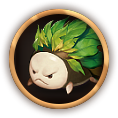
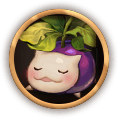
chore: add Monster Collection assets

diff --git a/src/renderer/components/core/Menu/index.tsx b/src/renderer/components/core/Menu/index.tsx
@@ -1,20 +1,20 @@
-import React, { useEffect, useState } from "react";
-import { observer } from "mobx-react";
-import MenuItem from "./MenuItem";
-import { useStore } from "src/utils/useStore";
-import { ipcRenderer, shell } from "electron";
 import { app } from "@electron/remote";
+import { shell } from "electron";
+import { observer } from "mobx-react";
+import React, { useEffect, useState } from "react";
 import { styled } from "src/renderer/stitches.config";
+import { useStore } from "src/utils/useStore";
+import MenuItem from "./MenuItem";
 
-import settings from "src/renderer/resources/icons/settings.png";
-import refresh from "src/renderer/resources/icons/refresh.png";
-import discord from "src/renderer/resources/icons/discord.png";
 import logo from "src/renderer/resources/icons/9c.png";
-import staking from "src/renderer/resources/icons/staking.png";
-import ncgLogo from "src/renderer/resources/icons/ncgLogo.png";
+import discord from "src/renderer/resources/icons/discord.png";
 import exchange from "src/renderer/resources/icons/exchange.png";
-import SettingsOverlay from "src/renderer/views/SettingsOverlay";
+import ncgLogo from "src/renderer/resources/icons/ncgLogo.png";
+import refresh from "src/renderer/resources/icons/refresh.png";
+import settings from "src/renderer/resources/icons/settings.png";
+import staking from "src/renderer/resources/icons/staking.png";
 import MonsterCollectionOverlay from "src/renderer/views/MonsterCollectionOverlay";
+import SettingsOverlay from "src/renderer/views/SettingsOverlay";
 import TransferAssetOverlay from "src/renderer/views/TransferAssetOverlay/main";
 import { useExternalURL } from "src/utils/useExternalURL";
 

diff --git a/src/renderer/views/MonsterCollectionOverlay/MonsterCollectionContent.tsx b/src/renderer/views/MonsterCollectionOverlay/MonsterCollectionContent.tsx
@@ -26,6 +26,8 @@ import monster2Img from "src/renderer/resources/collection/monster-2.png";
 import monster3Img from "src/renderer/resources/collection/monster-3.png";
 import monster4Img from "src/renderer/resources/collection/monster-4.png";
 import monster5Img from "src/renderer/resources/collection/monster-5.png";
+import monster6Img from "src/renderer/resources/collection/monster-6.png";
+import monster7Img from "src/renderer/resources/collection/monster-7.png";
 import itemMetadata from "src/utils/monsterCollection/items";
 
 import systemRewards from "src/utils/monsterCollection/systemRewards";
@@ -61,6 +63,8 @@ const images = [
   monster3Img,
   monster4Img,
   monster5Img,
+  monster6Img,
+  monster7Img,
 ];
 
 type LevelList =
@@ -102,7 +106,7 @@ export function MonsterCollectionContent({
   current: {
     stateQuery: { stakeState },
   },
-  isEditing: initalEditing,
+  isEditing: initialEditing,
   currentNCG,
   onChangeAmount,
   children,
@@ -110,7 +114,7 @@ export function MonsterCollectionContent({
   tip,
   isLoading,
 }: MonsterCollectionOverlayProps) {
-  const [isEditing, setIsEditing] = useState(initalEditing ?? false);
+  const [isEditing, setIsEditing] = useState(initialEditing ?? false);
   const inputRef = useRef<HTMLInputElement>(null);
   const [amount, setAmount] = useState("0");
   const [openedAlert, setIsAlertOpen] = useState<Alerts | null>(null);

diff --git a/src/renderer/views/MonsterCollectionOverlay/index.tsx b/src/renderer/views/MonsterCollectionOverlay/index.tsx
@@ -1,12 +1,5 @@
-import React, { useEffect, useState } from "react";
 import { observer } from "mobx-react";
-import { MonsterCollectionOverlayBase } from "./base";
-import { MonsterCollectionContent } from "./MonsterCollectionContent";
-import { OverlayProps } from "src/utils/types";
-import { sleep } from "src/utils";
-import { useBalance } from "src/utils/useBalance";
-import { useStore } from "src/utils/useStore";
-import { useTx } from "src/utils/useTx";
+import React, { useEffect, useState } from "react";
 import {
   TxStatus,
   useCurrentStakingQuery,
@@ -15,10 +8,16 @@ import {
   useStakingSheetQuery,
   useTransactionResultLazyQuery,
 } from "src/generated/graphql";
-import Migration from "./Migration";
-import { useTip } from "src/utils/useTip";
+import { sleep } from "src/utils";
 import { trackEvent } from "src/utils/mixpanel";
+import { OverlayProps } from "src/utils/types";
+import { useBalance } from "src/utils/useBalance";
 import { useLoginSession } from "src/utils/useLoginSession";
+import { useTip } from "src/utils/useTip";
+import { useTx } from "src/utils/useTx";
+import Migration from "./Migration";
+import { MonsterCollectionContent } from "./MonsterCollectionContent";
+import { MonsterCollectionOverlayBase } from "./base";
 
 function MonsterCollectionOverlay({ isOpen, onClose }: OverlayProps) {
   const { address, publicKey } = useLoginSession();
